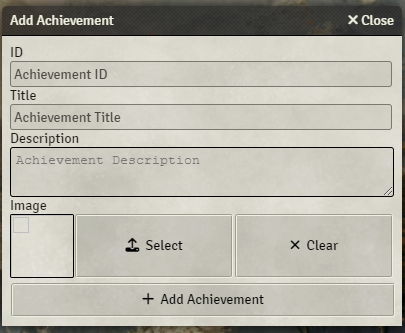
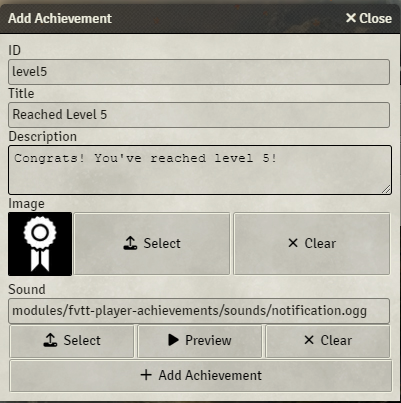
Sound is overridable per achievement.

Changed region(s): [[0.0, 0.0, 1.0, 1.0], [0.6584, 0.0, 0.8379, 0.03], [0.7182, 0.4805, 0.7781, 0.5105]]

diff --git a/src/module/app/add-achievement-form.js b/src/module/app/add-achievement-form.js
@@ -59,14 +59,34 @@ export class AddAchievementForm extends FormApplication {
 
     if (this.overrides.mode === "edit") {
       this.updateSelectImage();
+      this.updateSelectSound();
+    } else {
+      this.setupDefaults();
     }
 
     const achievementId = $("input[name='achievement_id']", html);
 
     $("button[type='submit']", html).click(this.handleSubmit.bind(this));
-    $("button[name='clear']", html).click(this.handleClear.bind(this));
+    $("button[name='clear_image']", html).click(this.handleClearImage.bind(this));
+    $("button[name='preview_sound']", html).click(this.handlePreviewSound.bind(this));
+    $("button[name='clear_sound']", html).click(this.handleClearSound.bind(this));
     $("button[name='achievement_image-button']", html).click(this.handleSelectImage.bind(this));
+    $("button[name='achievement_sound-button']", html).click(this.handleSelectSound.bind(this));
     achievementId.on("keyup", () => this.validateFields());
+  }
+
+  setupDefaults() {
+    const imageInput = document.querySelector("#achievement_image");
+    const imagePreview = document.querySelector("#achievement_image_preview");
+    imageInput.value = "modules/fvtt-player-achievements/images/default.webp";
+    imagePreview.style.display = "block";
+    imagePreview.src = "modules/fvtt-player-achievements/images/default.webp";
+
+    const soundInput = document.querySelector("#achievement_sound");
+    const soundPreview = document.querySelector("#achievement_sound_preview");
+    soundInput.value = "modules/fvtt-player-achievements/sounds/notification.ogg";
+    soundPreview.style.display = "none";
+    soundPreview.src = "modules/fvtt-player-achievements/sounds/notification.ogg";
   }
 
   validateFields() {
@@ -77,12 +97,55 @@ export class AddAchievementForm extends FormApplication {
       : "";
   }
 
+  handlePreviewSound(event) {
+    event.preventDefault();
+    const soundPreview = document.querySelector("#achievement_sound_preview");
+    if (soundPreview.src === window.location.href) {
+      new Audio("/modules/fvtt-player-achievements/sounds/notification.ogg").play();
+    } else {
+      soundPreview.play();
+    }
+  }
+
+  handleClearSound(event) {
+    event.preventDefault();
+    const soundInput = document.querySelector("#achievement_sound");
+    soundInput.value = "";
+    const soundPreview = document.querySelector("#achievement_sound_preview");
+    soundPreview.src = "";
+  }
+
+  updateSelectSound() {
+    const soundInput = document.querySelector("#achievement_sound");
+    const soundPreview = document.querySelector("#achievement_sound_preview");
+    console.log(soundInput.value, soundPreview.preview);
+    soundInput.value = this.overrides.achievement.sound ?? "";
+    soundPreview.style.display = "block";
+    soundPreview.src = this.overrides.achievement.sound ?? "";
+    console.log(soundInput.value, soundPreview.preview);
+  }
+
   updateSelectImage() {
     const imageInput = document.querySelector("#achievement_image");
     const imagePreview = document.querySelector("#achievement_image_preview");
     imageInput.value = this.overrides.achievement.image;
     imagePreview.style.display = "block";
     imagePreview.src = this.overrides.achievement.image;
+  }
+
+  handleSelectSound(event) {
+    event.preventDefault();
+    // Show the foundry file picker
+    const fp = new FilePicker();
+    fp.options.type = "audio";
+    fp.render(true);
+    fp.callback = (path, _filePicker) => {
+      const soundInput = document.querySelector("#achievement_sound");
+      soundInput.value = path;
+      const soundPreview = document.querySelector("#achievement_sound_preview");
+      soundPreview.style.display = "block";
+      soundPreview.src = path;
+    };
   }
 
   handleSelectImage(event) {
@@ -119,7 +182,7 @@ export class AddAchievementForm extends FormApplication {
     }
   }
 
-  handleClear(event) {
+  handleClearImage(event) {
     event.preventDefault();
     const imageInput = document.querySelector("#achievement_image");
     imageInput.value = "modules/fvtt-player-achievements/images/default.webp";
@@ -137,6 +200,7 @@ export class AddAchievementForm extends FormApplication {
     }, {});
 
     // Verify none of the fields are blank
+    console.log(data);
     if (Object.values(data).some((value) => !value)) {
       ui.notifications.error(localize("fvtt-player-achievements.messages.missing-fields"));
       return;
@@ -147,6 +211,7 @@ export class AddAchievementForm extends FormApplication {
       title: data.achievement_title,
       description: data.achievement_description,
       image: data.achievement_image,
+      sound: data.achievement_sound,
     };
 
     const customAchievements = game.settings.get("fvtt-player-achievements", "customAchievements");

diff --git a/src/module/fvtt-player-achievements.js b/src/module/fvtt-player-achievements.js
@@ -131,7 +131,7 @@ async function awardAchievementSelf({ achievement, playerId }) {
   }
 
   if (game.user.character?.uuid === playerId && playAwardSound) {
-    const audio = new Audio("/modules/fvtt-player-achievements/sounds/notification.ogg");
+    const audio = new Audio(achievement.sound ?? "/modules/fvtt-player-achievements/sounds/notification.ogg");
     audio.volume = 0.1;
     audio.play();
   }
